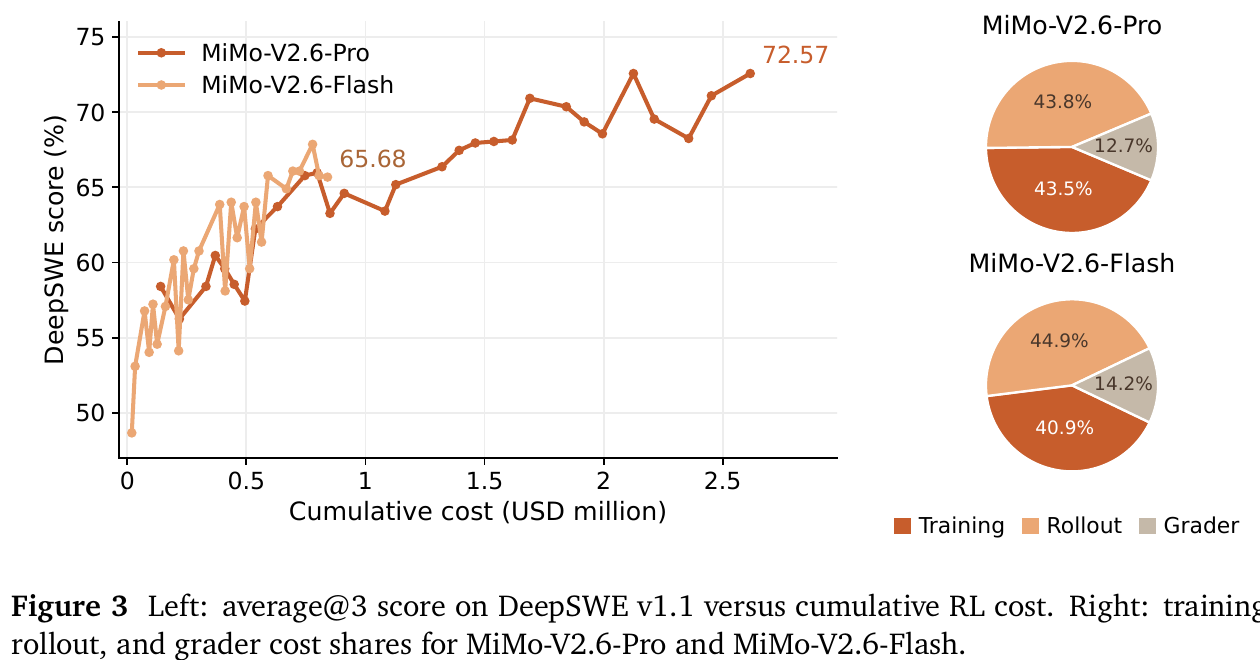
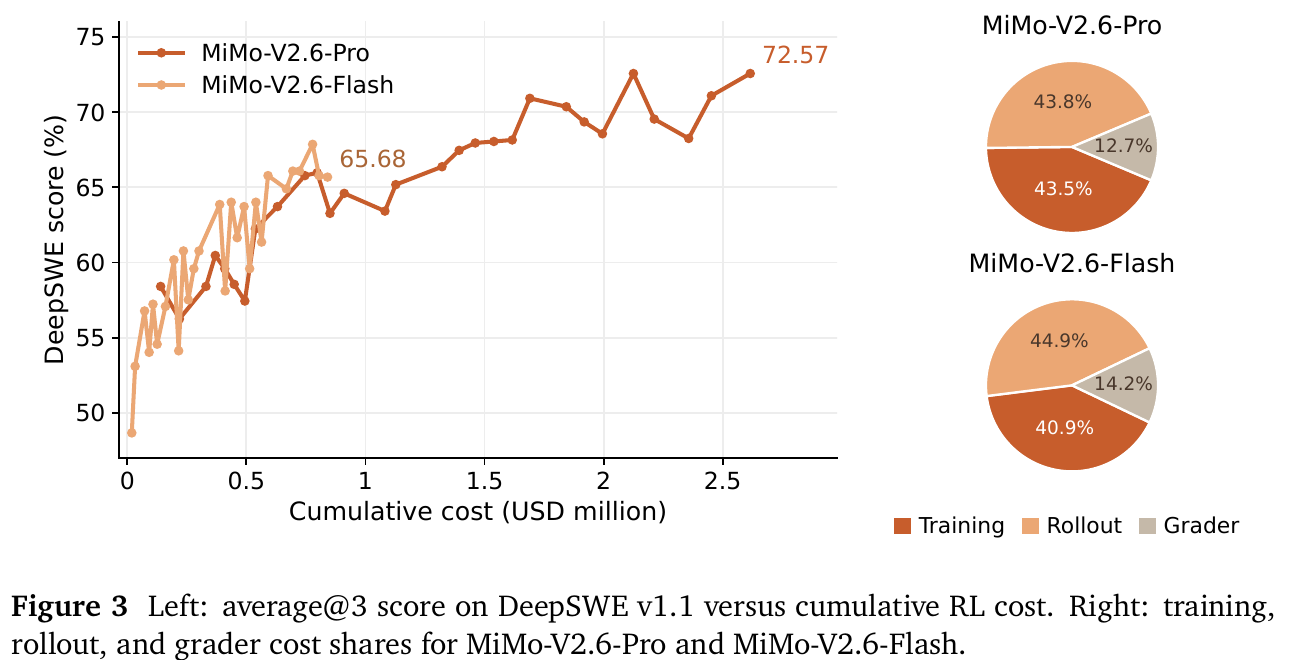
update wechat/323.md

diff --git a/wechat/assets/323/审稿意见.md b/wechat/assets/323/审稿意见.md
@@ -1,0 +1,184 @@
+# 323 期审稿意见
+
+审稿日期：2026-09-28。只写意见，未改正文、图片或暂存区。
+
+**整体判断：老师如何出题、判卷、防作弊这条主线成立，第三、四章也有足够的报告材料支撑。发布前需要收回开篇的精确贡献归因，并修正几处算法描述。不用推倒重写。**
+
[1 lines of base64/hex data omitted]
+
+## 一、影响开篇和结论的两件事
+
+### 1. 19.0、58.4、72.6、71.9 都是真数，但不能直接当成一条贡献分解曲线
+
+**位置：13、31–58、79、108、342、401、416 行。**
+
+原报告 §4.1 / 图3明确给出本轮 RL 的同口径变化：Pro 的 DeepSWE v1.1 avg@3 从 58.4 到 72.6，Flash 从 48.7 到 65.7。表3则给出 V2.5-Pro 的19.0，以及 V2.6 最终版的71.9/67.9。这些数字没抄错。
+
+问题有两层：
+
+- 表3没有写明 avg@k、具体 harness、每题预算等是否与训练曲线完全一致。正文解释 avg@3 和 pass@1 的关系是对的，但只能解释采样估计，不能补齐其他评测条件。第58行“随机波动吃不掉”没有回答这个问题。
+- 旧版最终模型并不是新版这轮训练的起始检查点。第44行已承认不知道新版是否沿用旧底座，也没有预训练、mid-training、SFT 的逐阶段消融；第79行却又把差值写成“把后训练分出一层”，第二章进一步用 mid-training 解释了这段差距。这里把已承认的不确定性又跨过去了。
+
+**建议保留所有数字，但把“精确分账”改成“两组观察”：** 本轮 RL 确实涨了14.2个百分点；另据报告表3，新版进入 RL 前的成绩已明显高于旧版最终成绩，说明新版的 RL 起点值得认真研究。可以说“高分不只是最后这一轮 RL 的故事”，不宜说已经证明“这一代总提升有近40分由 RL 前的阶段贡献、14分由 RL 贡献”。
+
+表中加一列“来源/口径”：19.0和71.9来自表3，58.4和72.6来自图3及§4.1。第40行“蒸馏后基本持平”可写成“报告另列最终版71.9”，不要用跨表差值测量蒸馏的净效果。
+
+**标题里的“开源第一”对应 AA 智能指数，正文分阶段分析的是 DeepSWE。** 这两把尺子也应在开头点明。AA 第一可以作为引子，但这份 DeepSWE 曲线不能解释 AA 第一具体由哪个阶段贡献。当前 AA 模型页确有46分及同档开源模型第一的显示。
+
+### 2. 带 KL 的闭式解可以帮助理解起点，但不是小米这次 RL 的更新规则
+
+**位置：87–108、256、348、373、401 行。**
+
+Korbak 的闭式解针对固定参考分布、正的 KL 惩罚系数。第五章又说明小米报告列出的 RL 目标没有 KL 项；所以“放回公式看，mid-training 做的就是抬 π₀”应作为理解初始化和探索的类比，不能作为这轮算法的直接推导。
+
+尤其是“RL 只能放大模型已经采得到的东西”反复出现在金句和速查表里，会被读成固定初始分布给 RL 划了永久边界。没有被采中的完整答案，确实不能在这批样本里直接获得自己的奖励；但参数共享、其他轨迹的更新和后续重新采样，仍可能改变它的概率。
+
+**建议：** 保留公式和学习者回扣，接成“这不是小米本轮的损失函数，但它提醒我先看训练起点：好的解题轨迹越容易被采到，有限预算里的 RL 就越容易得到有效反馈”。“抬 π₀”具体写成“提高有效轨迹的初始概率”。一百次变十次明确标为例子，不当小米的实测。
+
+这也能保住教育学结尾：**基础打得好，后面的练习更容易得到有效反馈。** 不必把它写成 RL 能力上限定理。
+
+## 二、具体机制需要修正
+
+### 3. GAR 的例子算得通，但把简化式写成了实际算法的无条件性质
+
+**位置：175–183、273、377 行；报告 p18，§4.3.2，式(3)。**
+
+报告这里确实用 `A_i = R_i − 组均值`，因此两过两不过的 ±0.5 正确。若两个成功解的质量因子取1和0.5，归一化后得到约0.67和0.33，也正确。**不要为了套一般 GRPO 的标准差归一化把数字强行改掉；把表头“普通 GRPO”改成“小米这里的原始优势”即可。**
+
+但原报告区分了两步：
+
+1. 未设上限的重分配：只动成功解，正优势总量守恒，失败解不变。
+2. 实际实现：给共同放大系数设上限，然后成功、失败轨迹一起减去组均值。上限生效时，失败优势也可能随之改变。
+
+**最小修改：** 表前加“先看一个未触及放大上限的例子”，表后补“实际训练还会限制放大倍数，并把整组优势重新调整到均值为零”。第五章、速查表把无条件“总量不变”收成“通过重分配维持正负信号的平衡”。
+
+### 4. 格式错误的优势重分配发生在整个训练批次，不是同一条轨迹
+
+**位置：274行；报告 p20，§4.3.3，式(5)。**
+
+报告先在整个训练 batch 内，按轨迹优势的正负，将报错与未报错 token 分组，再计算缩放系数。正文的“挪给同一条里没出错的 token”把操作范围写错了。
+
+此外，正负总量分别守恒只在缩放系数没有触及限制时成立；发生截断或者分母为零，报告明确说不保证守恒。
+
+**建议替换这一个要点：**
+
+> 格式错误按段处理：正优势轨迹里的错误 token 不再受奖励，拿掉的优势在整个训练批次里分给其他正优势、未报错的 token；负优势一侧加重错误 token 的惩罚，同时减轻未报错 token 的惩罚。缩放未触及限制时，正负两边分别保持总量。
+
+### 5. GRS 表格的“不看失败答案”没有依据；两种机制也不等于简单题/难题的绝对分界
+
+**位置：167、191–197行；报告 pp16–18，§4.3。**
+
+GRS 离线构表会比较多条轨迹、寻找反复出现的错误，报告没有说只看成功解。训练时逐条对表评分，与“不看没过的答案”也不是一回事。
+
+**建议将该行改成：**
+
+| 比较项 | GRS | GAR |
+|---|---|---|
+| 训练时是否整组比较 | 否，逐条按预先生成的评分表评估 | 是，对照成功与失败轨迹，给成功解排序 |
+
+GRS 选在部分高通过率任务上，不要求每组全过；GAR 用于其余代码任务中的混合结果组，也不是每个组天然都有过有不过。第197行改为“通过率高的题，GRS 连全过的组也能分出好坏；其余代码题碰到有过有不过的组，GAR 就现场排序”。
+
+### 6. V2.6-SFT 的身份从通用 agent 判分移接到了代码 GAR
+
+**位置：221行。**
+
+报告 §4.2.2（p12）在通用 agent 环境里明确点名 V2.6-SFT。代码 GAR 的 §4.3.2（p18）只说判分 agent 经过 SFT，没有点名模型。
+
+**建议：** “代码组内判分器经过 SFT；通用 agent 任务的判分器，报告则明确点名了自家的 V2.6-SFT。”也可以删掉这句，第三章论证不受影响。
+
+### 7. 图8测的是通过率、轮数和长度，没有测熵；任务类型与熵方向的概括也过头了
+
+**位置：268、278、381行；报告图8、§4.3.3、§5.1。**
+
+长输出不等于高 token 熵，重复输出甚至可以又长又确定。图8不能直接当“熵往上失控”的实测图。报告确实多次解释设计是为了限制额外负向压力导致的熵增长，保留这个作者动机即可。
+
+“数学题容易坍缩，长程 agent 更容易爆炸”没有对应的跨任务对照。DAPO 自己也讨论过熵过高导致乱码或重复，不是数学只需要防一头。
+
+**建议：** “315期重点讲熵往下掉，小米这份报告则多次提醒，还得防额外负向压力把熵往上推。长程训练里另一个看得见的问题，是轨迹越跑越长。”速查表把“高熵=又长又散”改成对概率分布的描述。
+
+第278行数据配比也写准：报告的68%是 **agentic coding + competitive coding**，不是所有“代码和 agent 任务”合计；通用工具使用还另占12%。
+
+**第272行四个边界按熵双向调整的方向，与报告原文一致，不要按一般 PPO 的直觉反向改。** 若补解释，可说这里对概率比超出区间的 token 做 mask，别直接理解成 DAPO 同一个 clip 算子。
+
+### 8. 不用生产壳的理由，译成“分不清模型与壳谁有功”偏了
+
+**位置：300–302、356行；报告 p14，§4.2.5。**
+
+原段接下来解释的是：生产壳施加许多要求，而任务完成奖励没有衡量这些要求，结果它们容易被忽略。还有第二个理由：模块紧耦合，不方便单独改变某个交互机制。
+
+**建议改为：** “壳要求模型守很多规矩，奖励却只问任务做完没有，模型就容易忽略那些不计分的要求。极简壳还方便把工具、提示和上下文管理分开组合。”
+
+教室表格也相应改成“练习要求和评分标准要对得上”，比“辅导书抢功劳”更贴报告。
+
+### 9. “这不算作弊，没篡改测试”不是报告得出的结论
+
+**位置：215行；报告 p19，图8后的代码审查段。**
+
+报告列出这些维护者不喜欢的写法，说它们旨在提高测试通过概率，没有保证每种手法一定有效，也没有排除它们属于广义 reward hacking。尤其“针对评测改配置”，本身就可能在钻奖励漏洞。
+
+**建议：** “这些写法都奔着提高过测试的概率去，却可能把代码越写越糟。除了去网上找现成补丁，奖励还会诱导这种应付测试的写法。”这样仍能自然转到第四章，不需要先替它们判定“不算作弊”。
+
+### 10. MXFP4 不只是少占存储，多模态训练也不能因评测纯文本就被排除影响
+
+**位置：42行；报告 p7，§3.1–3.2，以及§6.4。**
+
+报告明确有 MXFP4 量化感知训练，让模型适应低精度计算；训练/推理一致性一节还描述专家权重的量化—反量化。它不是不改变数值计算的无损文件压缩。“存储格式只影响权重占多少空间”应删除。
+
+纯文本评测不调用视觉和音频输入路径，这句话可以保留；但预训练时全模态联合训练会更新语言主干，不能据此排除多模态训练对文本能力的影响。
+
+**建议保留结论的准确部分：** “两代语言主干的层数、注意力布局和专家配置相同；新版又加入多模态训练和低精度适配。”不必把“主干拓扑没换”扩成“其他变化都与成绩无关”。
+
+## 三、数据与来源的小修
+
+### 11. 9B 实验支持好 SFT 起点，但 RL 列不是一台通吃所有领域的最终模型
+
+**位置：21、64–73、391行；报告§7.1–7.2，表4–6。**
+
+- 实验在正文第7节、pp33–35，不在附录。三处“附录”一并改。
+- 表6的 RL 列来自同一个 SFT 起点上，**各领域分别运行 GRPO** 的检查点。表下补这一句，避免读者以为这也是旗舰的一次混合 RL。
+- 已列四行数字全部正确；774亿是总 token，实际参与 SFT loss 的是272亿。正文原说法可用，若解释训练量，最好带上区分。
+- 完整表11项中8项是 SFT 增益更大，3项相反：SWE-bench Verified、Terminal Bench 2.1、MiMo Visual Coding mini。现在只列四项后说“例外是终端操作题”，会让人误以为只有这一类。改“表中终端操作题是一个反例；完整表里的 SWE-bench Verified 和视觉编程也是 RL 涨得更多”。或者只说“这里列出的四项中，前三项 SFT 涨得更多”。
+
+9B结果可作为单独的支持性观察，不用来补足旗舰模型缺失的阶段消融。
+
+### 12. 其余短句修正
+
+| 位置 | 问题 | 最小处理 |
+|---|---|---|
+| 9、416行 | 44页报告并非“两页架构，四十多页全讲RL”；架构§2跨pp4–6，p7讲预训练，另有参考文献与贡献名单 | 改“44页报告的主体都在讲RL及其配套训练系统” |
+| 13行 | “别家没公开过”是范围过大的排他断言 | 改“往期没见过这么完整地摆出来” |
+| 144行 | 三道检查“保证测试本身不出错”过强 | 改“先排除几类明显的判分错误” |
+| 207行及图8说明 | “一路涨到第52步”容易读成单调上涨，实际有明显波动，最后还回落一点 | 改“训练持续到52步，通过率总体维持在更高水平” |
+| 254行 | 图6第二轮三个低点约9%、13%、19%，不全是“一成多” | 改“其中三个第二轮降到约一到两成”；仍明显低于第一轮 |
+| 288行 | “MoE模型如果让路由器继续训”将单模型观测泛化 | 加“小米这次的Pro实验中”；图11具体是第9层 |
+| 316行 | 前缀条件蒸馏“就不会跑偏”过满 | 改“限制前面多轮偏差的累积”；说明前缀来自老师轨迹或SFT示范，本轮仍由学生自己生成 |
+| 342行 | “每一块都附了对照实验”不准确，熵双向控制没有单独消融 | 保留“对照实验或实测数字”也须避免读成每个机制有因果验收；可写“给了GAR、路由冻结的对照，也公开了训练曲线和故障记录” |
+
+“外媒标题写260万美元造出第一”这一句，本次未定位到对应原始标题，不判为假。若保留引号式转述，建议在核查材料里补具体媒体和标题；否则直接说“260万美元是RL阶段费用，不是整台模型的研发成本”，这句已有报告支持。
+
+## 四、已经核过，可以保留的部分
+
+- Pro/Flash 本轮RL起止分数、260万/90万美元、Pro123.1小时、Flash81.8小时；图3三项成本占比均对。
+- 每步1568×16=25088条；按每步27亿至37亿 token 乘30步，约810亿至1110亿。“一千亿上下”作为文中明确标注的估算成立；最好把“每条11万至15万”写成平均长度，不是每条都落在区间内。
+- avg@3与pass@1估计同一单次成功量、pass@3另算的解释可保留；无需把pass@1说成只能采一次。
+- GRS乘法、GAR五项排序维度、确认偷答案后清零并重算组统计，均有原文。
+- 表2五个偷答案案例、环境清理、hack agent反复测试到没有找到新路径、mid-training纠错样本，都有原文。图6训练中检测到的比例低于2%，图文相符。
+- 路由负载数字、还原第20步路由参数后负载恢复且分数不变，有报告原文支持。
+- 跨壳平均约50%到66%、25种来源间token量差90倍和耗时差66倍、partial rollout长度估计引起KV池耗尽，引用成立。
+- 往期282的pⁿ例子、283的kernel奖励与防作弊、284的评分表和两两比较、264的多壳训练、287的WAL、315的Ring-Zero系数，都在各期正文中；`(0.97/0.95)^100≈8.03` 算术正确。
+- MOPD的北大/小米署名、235B外部老师实验、0.937对0.882，原论文与往期相符。若再次展开0.937/0.882，带上“归一化成绩”，别让它像成功率。
+
+## 五、阅读与排版
+
+这篇目前“近40分对14分”的开篇占了较多篇幅，真正有新材料的判分器到第三章才出现。无需为审稿新增章节；先把前两章贡献归因收准，保住第三、四章和结尾的教室对照表。若要压长度，第六章的基建故障灯泡可以优先压短，这是编辑建议，不是事实修正。
+
+核查结果：六张引用图片都存在且已目视检查；没有重复URL；摘要94字符；落款是次日9月29日，符合发布节奏。图3图片底部英文图注右端有裁切，重截时可修，数据区域完整。正文里的GRPO、KL、MOPD2首次出现可补中文与全称；公式的Z可顺手解释为“把概率总和归一到1的系数”。编号列表的数字后空格按现有微信排版规矩处理即可。
+
+## 核查依据
+
[1 lines of base64/hex data omitted]
+- [MOPD原论文](https://arxiv.org/html/2606.30406)：老师分布差异与混合RL对照。
+- [Korbak原论文](https://arxiv.org/html/2205.11275)：KL正则化目标与闭式最优分布的条件。
+- [DAPO原论文](https://arxiv.org/html/2503.14476)：Clip-Higher、优势归一化与熵控制。
+- [AA的MiMo-V2.6-Pro页面](https://artificialanalysis.ai/models/mimo-v2-6-pro)：2026-09-28实时显示智能指数46，同档开源模型排名1/116；该排名不等于每个单项评测第一。
+- 本仓285/286/282/283/284/287/264/246/311/315/317/322正文，以及322目录中两代Pro的原始config。本审单不把素材笔记当作论文证据。
